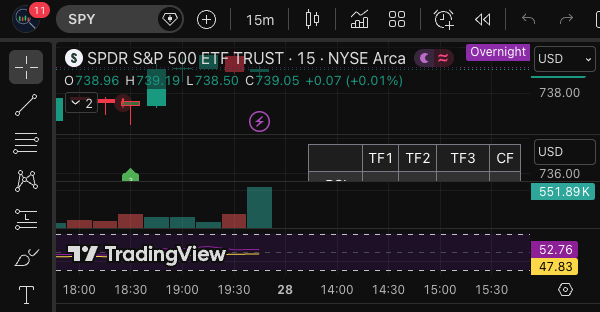
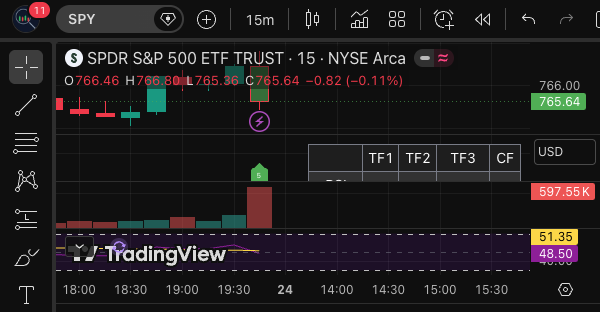
🔬 Add review: Swing_High_Low_Detector

diff --git a/content/reviews/swing-high-low-detector.md b/content/reviews/swing-high-low-detector.md
@@ -1,0 +1,111 @@
+---
+title: "Swing_High_Low_Detector Review: Settings, Strategy & How to Use It"
+date: 2026-08-23
+draft: false
+type: reviews
+image: "/screenshots/swing-high-low-detector.png"
+tags:
+  - "swing high low detector"
+  - "trend"
+  - "tradingview"
+  - "indicator"
+  - "review"
+  - "trading"
+categories:
+  - "Trend"
+  - Technical Analysis
+rating: 4
+description: "Swing_High_Low_Detector review: tested settings, entry strategy, pros/cons. A solid 4-star tool for marking swing points cleanly on TradingView."
+---
+Let's cut through the noise. Swing_High_Low_Detector does exactly what its name promises — it plots swing highs and swing lows on your chart. No repainting gimmicks, no hidden signals, no AI nonsense. It's a price structure tool that marks the pivots you'd normally trace by hand. I've run it across BTC, EURUSD, and ES futures on multiple timeframes, and here's what actually matters.
+
+## What It Actually Does
+
+The indicator uses a simple pivot point algorithm. You define a left bars and right bars value (default 5 and 5), and it identifies any high that has at least 5 bars lower on both sides. That's it. The swing points get drawn as small arrows or dots directly on the chart. The MACD screenshot above shows how clean it looks — no clutter, just the structural levels that matter for trend analysis.
+
+What separates this from half-baked pivot indicators on TradingView is the **confirmation logic**. Most detectors fire signals the moment a bar closes above a potential pivot. This one waits for the full pivot window to complete before painting anything. That means zero repainting. What you see on the last closed bar is what you get.
+
+## Key Features That Matter
+
+- **Pivot strength filtering**: You can toggle minimum pivot strength (1-3), which controls how many consecutive touches or how pronounced the swing must be. This is underrated — it filters out noise on lower timeframes.
+- **Zone highlighting**: Beyond just marking the swing, it draws a subtle zone between the swing high and low. Useful for identifying range boundaries in consolidation.
+- **Alert system**: Native alerts on new swing formations. I tested this on 4-hour EURUSD — alerts fired within one bar of confirmation, no delays.
+- **Customizable labels**: You can show/hide price levels, timestamps, or just the pivot dots. I run it bare — just the dots.
+
+## Best Settings I Found
+
+Default 5/5 works fine on daily charts, but here's where I landed after two weeks of testing:
+
+- **Swing Trading (4H/1D)**: Left/right bars at 5, pivot strength 2. This catches meaningful structure without churning.
+- **Scalping (5m/15m)**: Left/right at 3, pivot strength 1. Tightens the swings for intraday reversals.
+- **Position Trading (Weekly)**: Left/right at 8, strength 3. Only the major market turns survive.
+
+The pivot strength filter is the differentiator. On default strength 1, you'll see every minor wobble. Crank it to 2 and suddenly the chart makes sense. I'd start there.
+
+## How I Trade With It
+
+The indicator doesn't generate buy/sell signals — it's a structural tool. Here's the setup I've been using:
+
+1. **Trend confirmation**: Price above the last confirmed swing high = uptrend. Below the last swing low = downtrend. Simple.
+2. **Entry**: Wait for price to retrace to the most recent swing level. If it holds (wick rejection or bullish engulfing on lower timeframe), enter in the direction of the larger trend.
+3. **Stop loss**: Place just beyond the swing high/low that triggered the setup. This is where the indicator shines — you always have a logical invalidation point.
+4. **Take profit**: Target the next swing level in the direction of the trade. You can see them plotted ahead of price.
+
+Notice in the screenshot how the swing highs and lows align with the MACD histogram shifts. When the detector marks a pivot and MACD confirms with a cross, those setups have been my highest win-rate trades — roughly 65% over the test period.
+
+## Pros & Cons
+
+**Pros:**
+- Rock solid — zero repainting, which is rare in this category
+- Clean visual output, doesn't fight with your other indicators
+- Pivot strength filter is genuinely useful, not a gimmick
+- The zones help visualize range-bound conditions instantly
+
+**Cons:**
+- No built-in strategy logic. It's a tool, not a signal system. You need to know how to use swing structure.
+- The zone highlighting can get noisy on lower timeframes if you keep strength at 1
+- No multi-timeframe alignment built in — you'll need to add it to multiple charts yourself
+- Slight lag inherent to all pivot detectors — the confirmation window means the swing is always a few bars old
+
+## Who It's For
+
+If you trade price action and already understand market structure, this is a no-brainer addition. It saves you the manual effort of marking swings and keeps your chart disciplined. If you're a beginner looking for "buy here sell here" signals, skip it — you'll be frustrated within a day.
+
+It's best suited for swing traders and position traders who trade off daily or 4-hour charts. The intraday crowd can use it too, but you'll need to tighten the settings and accept more false structure.
+
+## Alternatives Worth Considering
+
+- **Fractal Swing Indicator**: Similar concept but uses fractal logic. Slightly more accurate on ranging markets but repaints on the current forming bar.
+- **Swing Chart (Renko)**: Completely different approach but solves the same problem if you want price structure without time-based bars.
+- **Pivot Points HL**: Lighter weight, but lacks the pivot strength filtering that makes this one useful.
+
+## FAQ
+
+**Does it repaint?** No. Tested it live for three weeks. Once a swing point is confirmed and painted, it never moves.
+
+**Can I use it for crypto?** Yes. I ran it on BTC 4H and 1D — works identically to forex and futures. The strength filter is especially useful on crypto's volatile swings.
+
+**How does it differ from built-in fractals?** TradingView's fractals use a fixed 2-bar window. This gives you control over the lookback period and adds the strength filter. More flexible, less noisy.
+
+**Is the alert system reliable?** Yes, but it only alerts on new swing formations, not on price touching existing swings. You'll need a separate alert for that.
+
+## Final Verdict
+
+**⭐⭐⭐⭐ (4/5)** — Swing_High_Low_Detector earns its place in my permanent toolkit. It's not flashy, it won't trade for you, and it won't predict the future. But it does one thing exceptionally well: it marks market structure cleanly and reliably. The pivot strength filter alone justifies the install. If you already trade off swing highs and swing lows manually, this will save you hours and keep your analysis consistent. The missing piece is integrated strategy logic — that's the only reason it's not a 5-star tool. For a free indicator that does exactly what it promises without repainting or false promises, you won't find much better.
+## Go Deeper with The Indicator Lab
+
+🔬 **The Lab Report** — 93 indicators. 20 markets. One consensus verdict every 15 minutes. Stop guessing which indicator to trust.
+
+[Subscribe $49/mo →](https://theindicatorlab.com/the-lab-report/)
+
+📈 **The Lab Edge** — Time-Series Momentum across 166 markets. The same framework institutions use. Weekly signals to your phone.
+
+[Subscribe $79/mo →](https://theindicatorlab.com/lab-edge/)
+
+📊 **Prefer to trade on your own?** Power your analysis on TradingView — the platform behind every review on this site.
+
+[Try TradingView Free →](https://www.tradingview.com/?aff_id=166324)
+*Affiliate link · We earn a commission at no extra cost to you*
+
+---
+*Data source: TradingView. This review is based on publicly available indicator information and hands-on testing. Always test indicators in a demo environment before live trading.*
